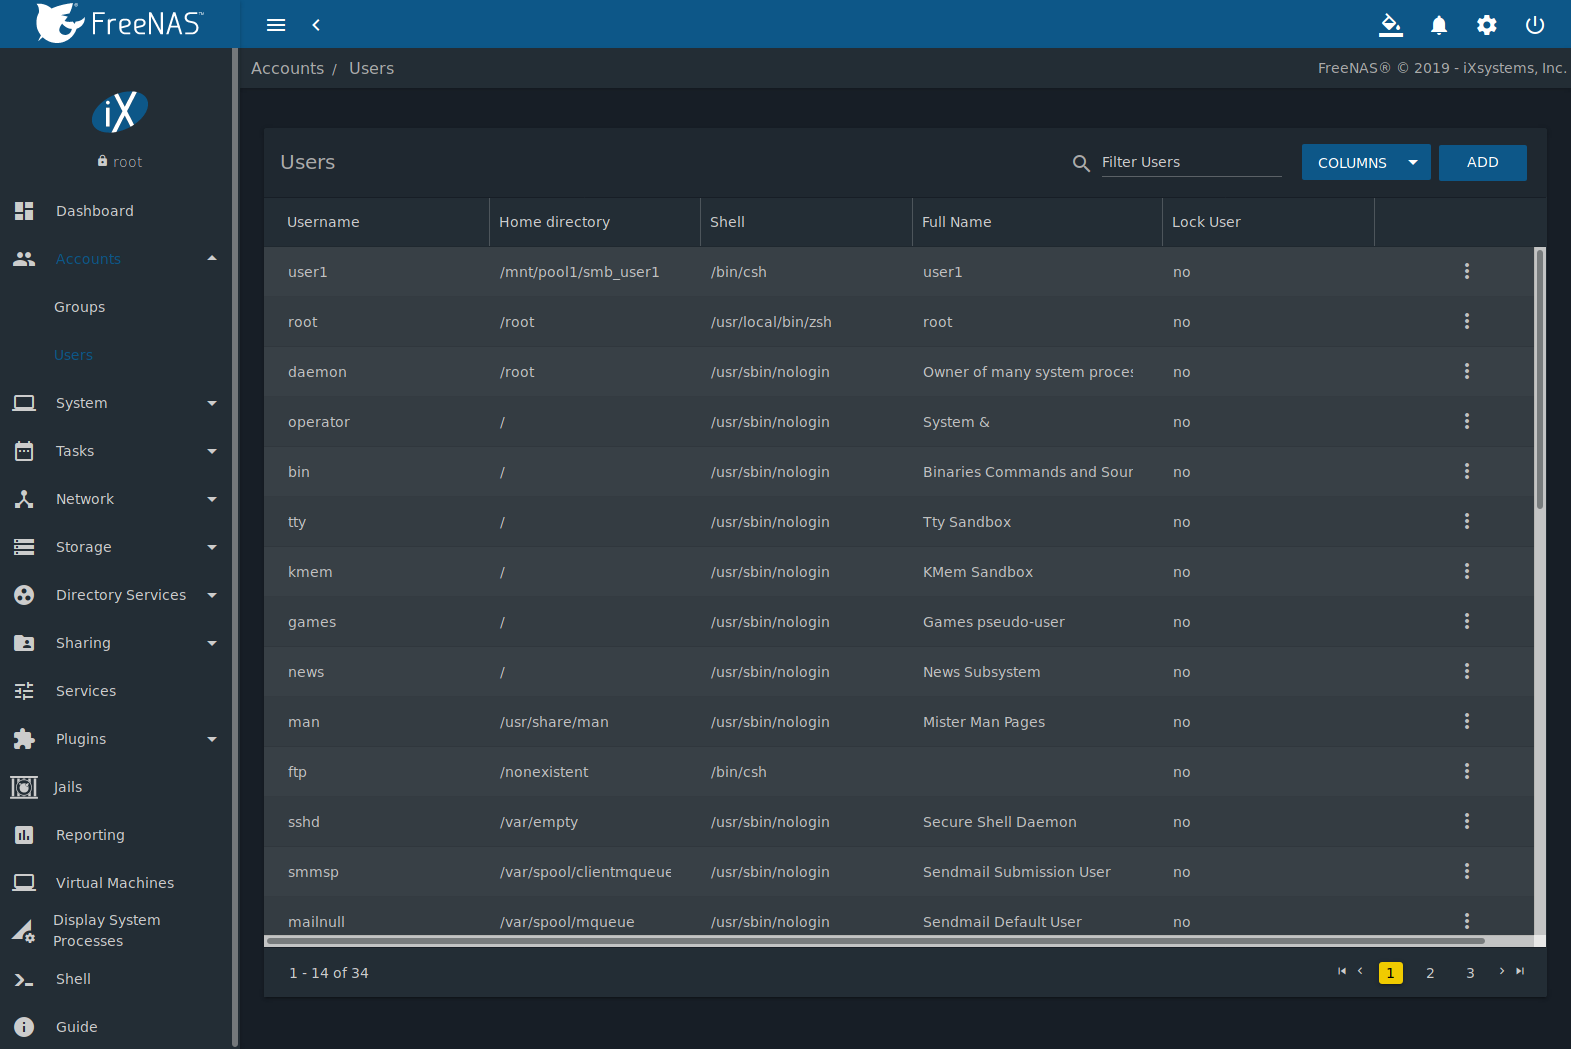
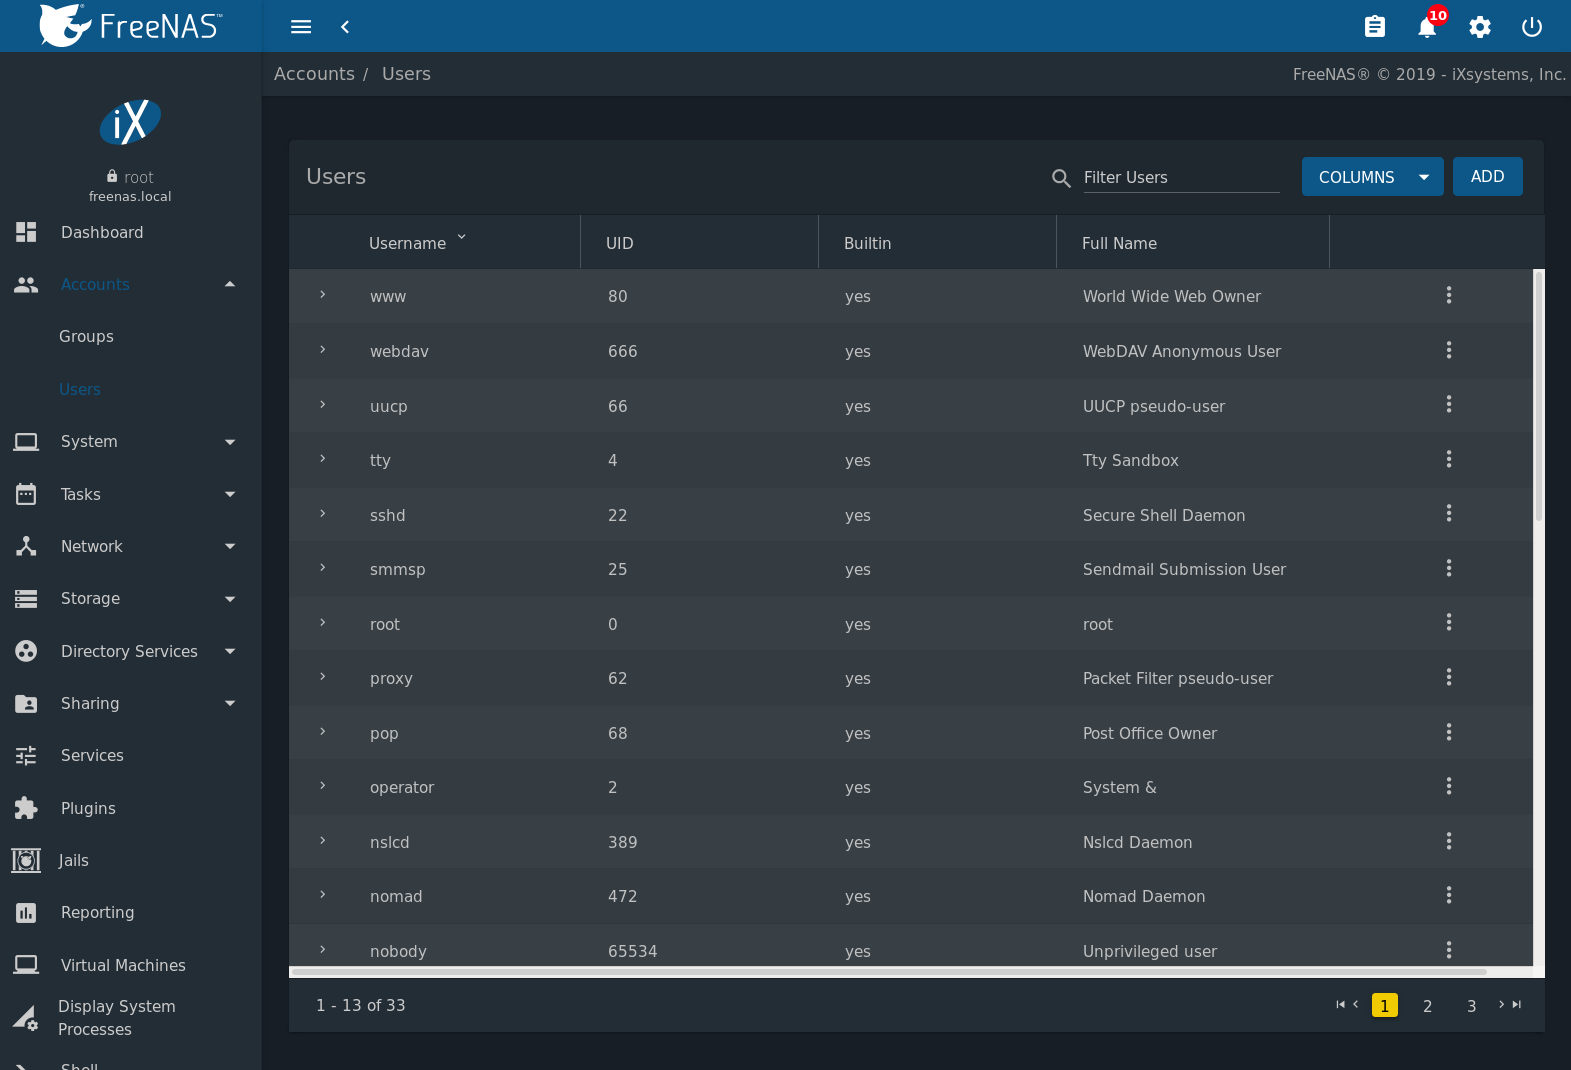
NAS-102329: Update docs for default view in Accounts/Users - Add temporary image for accounts-users.png - HTML build test: no issues.

diff --git a/userguide/accounts.rst b/userguide/accounts.rst
@@ -166,10 +166,10 @@ accounts installed with the %brand% operating system, as shown in
    Managing User Accounts
 
 
-By default, each user entry displays the username, home directory,
-default shell, the user full name, and if the user is locked. This table
-is adjustable by setting the different column checkboxes above it. Set
-:guilabel:`Toggle` to display all options in the table.
+By default, each user entry displays the username, User ID (UID), if the
+user is built in to %brand%, and the full name of the user. This table
+is adjustable by clicking :guilabel:`COLUMNS` and setting the desired
+columns.
 
 Clicking a column name sorts the list by that value. An arrow
 indicates which column controls the view sort order. Click the arrow to
